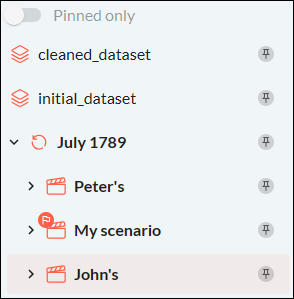
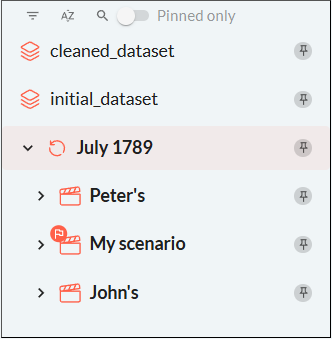
Data node selector doc update for 4.0 (#1210)
Data node selector doc update for 4.0

diff --git a/taipy_theme/assets/stylesheets/avaiga.css b/taipy_theme/assets/stylesheets/avaiga.css
@@ -915,12 +915,19 @@ figure.tp-center {
 [data-md-color-scheme="default"] .visible-dark{
   display: none;
 }
-
 [data-md-color-scheme="slate"] .visible-light{
   display: none;
 }
+
 a.md-content__button{
   display: none;
+}
+
+svg.mui-icon{
+    width: 1.4em;
+    height: 1.4em;
+    vertical-align: middle;
+    fill: currentColor;
 }
 
 .tp-btn-parent,

diff --git a/docs/release-notes/index.md b/docs/release-notes/index.md
@@ -66,19 +66,36 @@ Published on 2024-10.
 
 <h4><strong><code>taipy</code></strong> 4.0.0</h4>
 
-- The User Experience of the Scenario and Data management Visual elements have been greatly
-  improved by the following new functionalities:
-    - The multiple selection is now available on the data node selector: TODO add details
-    - A filter capability has been added to the data node selector: TODO add details
-    - A sort capability has been added to the data node selector: TODO add details
-    - A search capability has been added to the data node selector: TODO add details
-    - A new detail panel has been added to the job selector: TODO add details
-    - The multiple selection is now available on the scenario selector: TODO add details
+The User Experience of the Scenario and Data management controls have been greatly improved by the
+following new functionalities:
+
+- [*Scenario Selector*](../refmans/gui/viselements/corelements/scenario_selector.md):
+    - Multiple selection is now available.<br/>
+      See the [*multiple*](../refmans/gui/viselements/corelements/scenario_selector.md#p-multiple)
+      property for more details.
     - A filter capability has been added to the scenario selector: TODO add details
     - A sort capability has been added to the scenario selector: TODO add details
     - A search capability has been added to the scenario selector: TODO add details
-    - The data node viewer now offers the possibility to upload/download data for the file
-        based data nodes: TODO add details
+- [*Data Node Selector*](../refmans/gui/viselements/corelements/data_node_selector.md):
+    - Multiple selection is now available.<br/>
+      See the [*multiple*](../refmans/gui/viselements/corelements/data_node_selector.md#p-multiple)
+      property for more details.
+    - Users can now filter data nodes in the list.<br/>
+      See the
+      [section on Filtering](../refmans/gui/viselements/corelements/data_node_selector.md#filtering)
+      for more details.
+    - Users can now sort data nodes in the list.<br/>
+      See the
+      [section on Sorting](../refmans/gui/viselements/corelements/data_node_selector.md#sorting) for
+      more details.
+    - Users can now search data nodes in the list<br/>
+      See the
+      [section on Searching](../refmans/gui/viselements/corelements/data_node_selector.md#searching)
+      for more details.
+- [*Data Node Viewer*](../refmans/gui/viselements/corelements/data_node.md):
+    - Users can now upload and download data of file-based data nodes.
+- [*Job Selector*](../refmans/gui/viselements/corelements/job_selector.md):
+    - A new detail panel has been added to the job selector.
 
 <h4><strong><code>taipy-gui</code></strong> 4.0.0</h4>
 
@@ -298,7 +315,7 @@ Published on 2024-10.
 - Table columns are too narrow if there are many.<br/>
   See [issue #2082](https://github.com/Avaiga/taipy/issues/2082).
 - Styling is not applied to a [`table`](../refmans/gui/viselements/generic/table.md) control if its
-  [*rebuild*](../refmans/gui/viselements/corelements/data_node.md#p-rebuild) property is set to
+  [*rebuild*](../refmans/gui/viselements/generic/table.md#p-rebuild) property is set to
   True.<br/>
   See [issue #2005](https://github.com/Avaiga/taipy/issues/2005).
 
